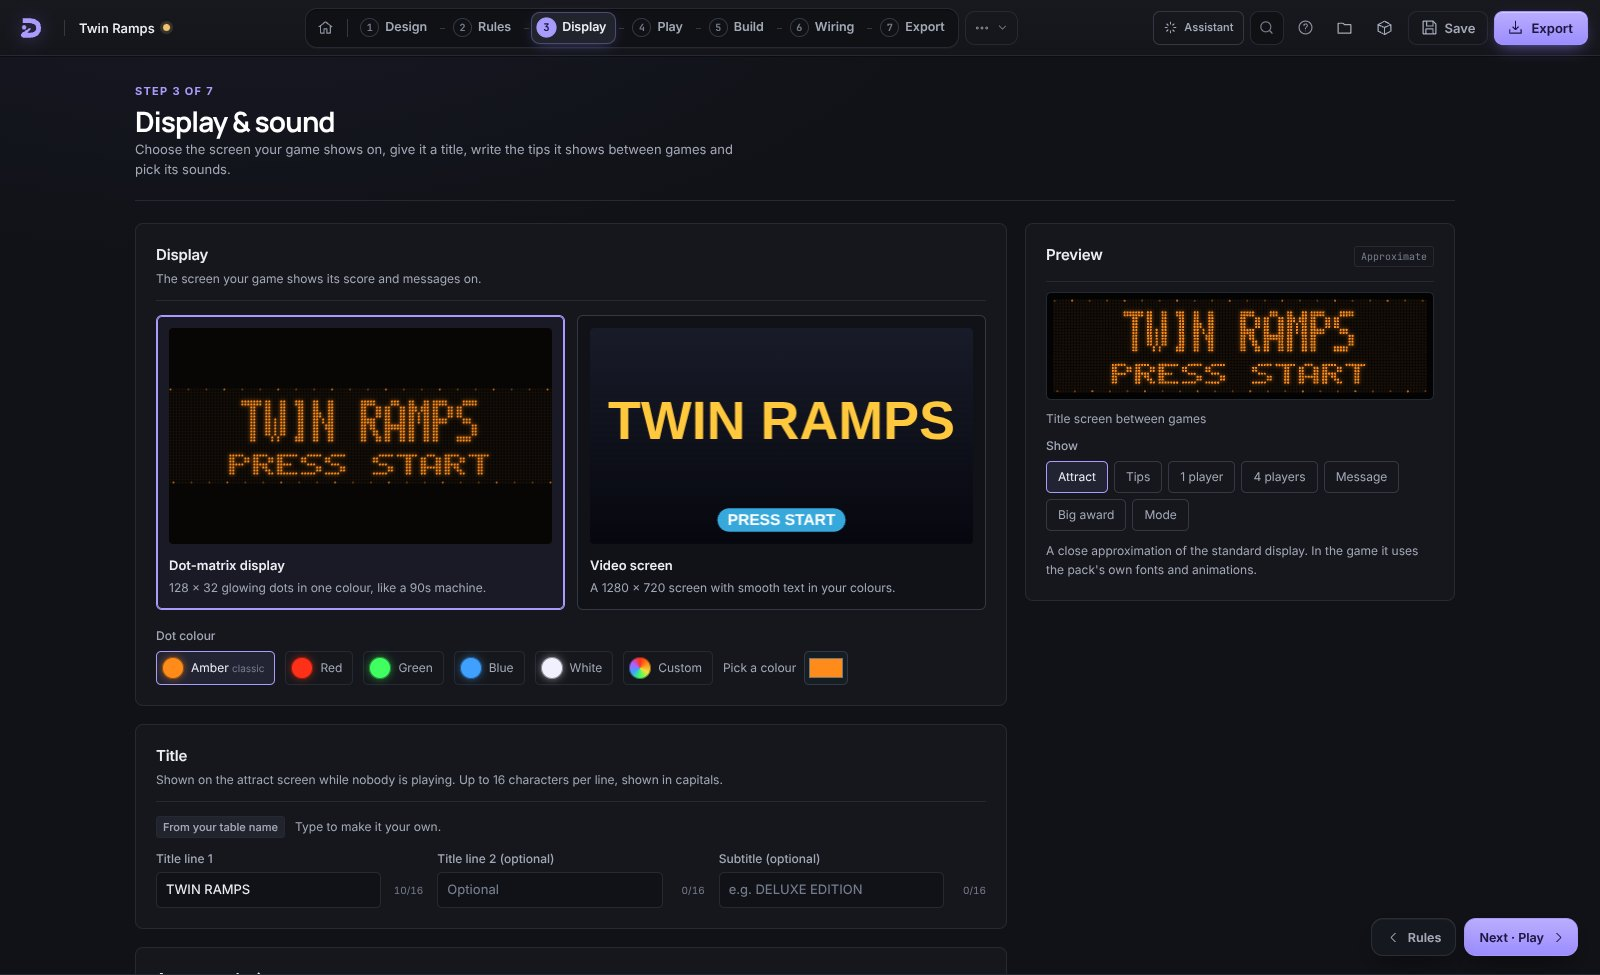
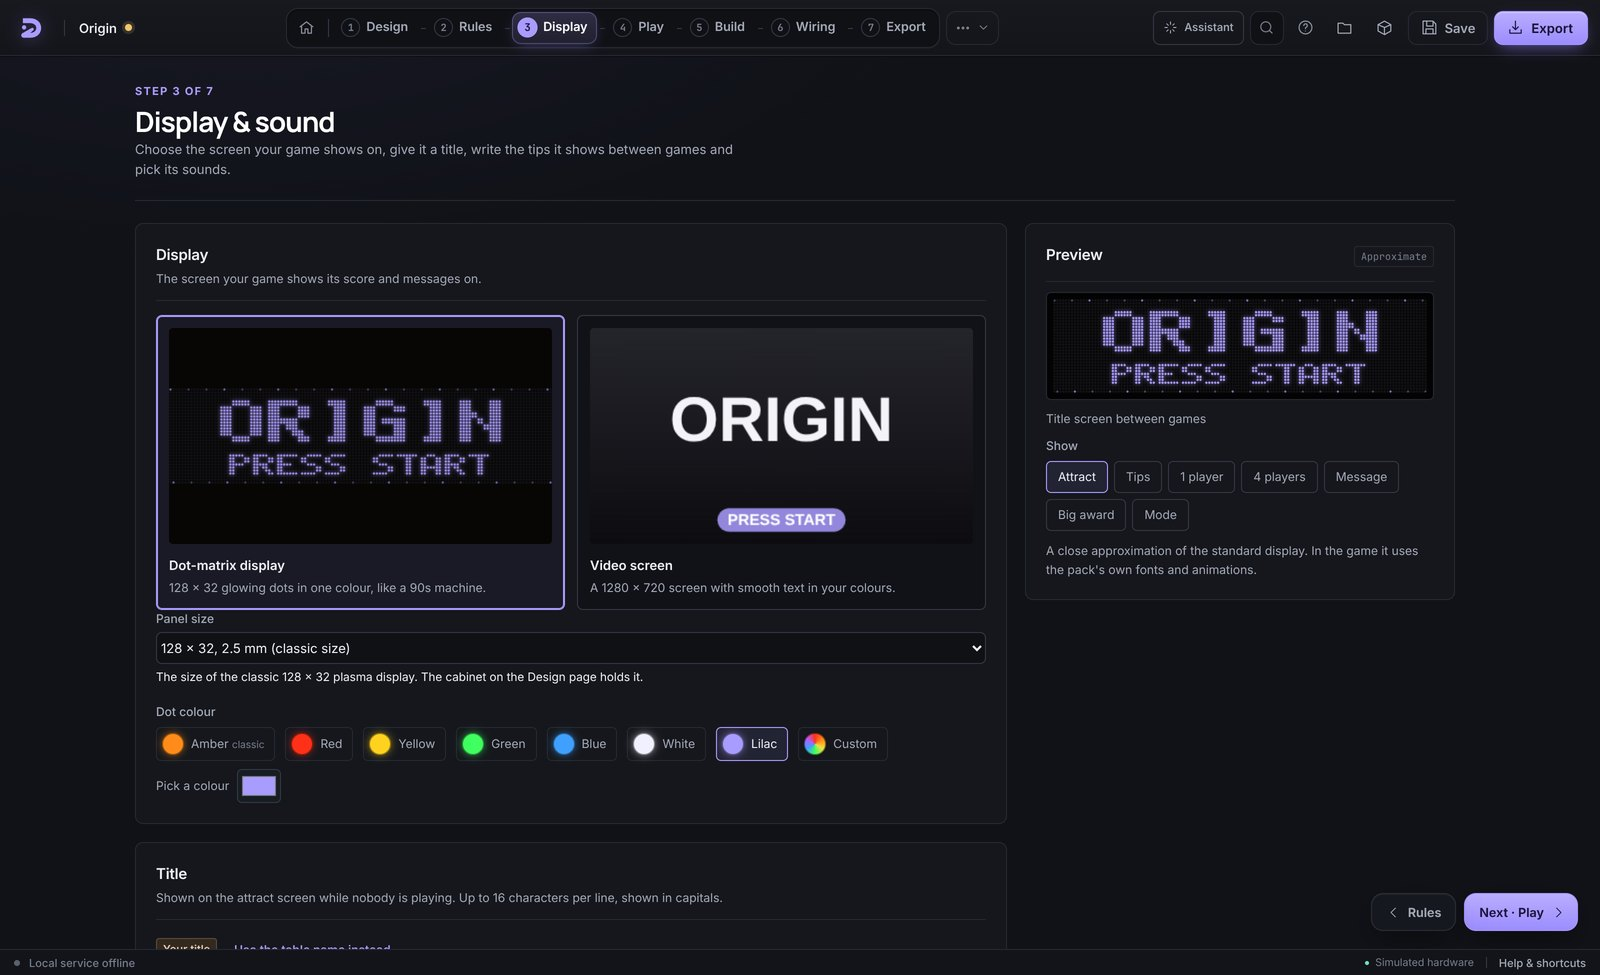
Show the current Deadbounce studio throughout its case study
Fresh captures of the Design, Rules, Display, Build and Wiring pages with the Origin table open, taken from
Deadbounce's main branch at a26bde3 at twice the size and scaled down for sharp text. The hero also comes at 2400
wide for high-density screens. The alt text now describes what each shot shows: the lilac display, Origin's cut
plan and the FAST Neuron boards.

Claude-Session: https://claude.ai/code/session_01YP6uGPMfsV9kKyrg262rqo

diff --git a/work/deadbounce.html b/work/deadbounce.html
@@ -103,7 +103,7 @@
 
     <section class="case-shot wrap" aria-label="The design page">
       <div class="case-media">
-        <span class="case-media-inner"><picture><source srcset="/assets/img/deadbounce-design.webp" type="image/webp"><img src="/assets/img/deadbounce-design.jpg" alt="Deadbounce’s design page: a parts library of flippers, slingshots, pop bumpers, walls, ramps and targets beside a 3D view of the Twin Ramps playfield, with its ramps, wireforms, pop bumpers and flippers." width="1600" height="975" fetchpriority="high" decoding="async"></picture></span>
+        <span class="case-media-inner"><picture><source srcset="/assets/img/deadbounce-design.webp 1600w, /assets/img/deadbounce-design-2400.webp 2400w" sizes="(min-width: 1360px) 1200px, 92vw" type="image/webp"><img src="/assets/img/deadbounce-design.jpg" srcset="/assets/img/deadbounce-design.jpg 1600w, /assets/img/deadbounce-design-2400.jpg 2400w" sizes="(min-width: 1360px) 1200px, 92vw" alt="Deadbounce’s design page: a parts library of flippers, slingshots, pop bumpers, walls, ramps and targets beside a 3D view of the Origin table, with its ramps, wireforms, pop bumpers and flippers." width="1600" height="975" fetchpriority="high" decoding="async"></picture></span>
       </div>
     </section>
 
@@ -158,19 +158,19 @@
         </div>
         <div class="gallery">
           <figure data-fade>
-            <span class="shot"><picture><source srcset="/assets/img/deadbounce-rules.webp" type="image/webp"><img src="/assets/img/deadbounce-rules.jpg" alt="The game rules page: a list of rule features on the left, and the skill shot’s settings, plain-English summary and targets on the right." width="1600" height="975" loading="lazy" decoding="async"></picture></span>
+            <span class="shot"><picture><source srcset="/assets/img/deadbounce-rules.webp" type="image/webp"><img src="/assets/img/deadbounce-rules.jpg" alt="The game rules page for Origin: its twenty features in a list on the left, and the skill shot’s settings, plain-English summary and five top-lane targets on the right." width="1600" height="975" loading="lazy" decoding="async"></picture></span>
             <figcaption><strong>Game rules</strong>Pick a feature, fill in the blanks, and the studio writes the configuration. The summary at the top says what the rule does in plain English.</figcaption>
           </figure>
           <figure data-fade>
-            <span class="shot"><picture><source srcset="/assets/img/deadbounce-display.webp" type="image/webp"><img src="/assets/img/deadbounce-display.jpg" alt="The display and sound page: a choice between an amber dot-matrix display and a video screen, each showing Twin Ramps, Press Start." width="1600" height="975" loading="lazy" decoding="async"></picture></span>
+            <span class="shot"><picture><source srcset="/assets/img/deadbounce-display.webp" type="image/webp"><img src="/assets/img/deadbounce-display.jpg" alt="The display and sound page: a choice between a lilac dot-matrix display and a video screen, each showing Origin, Press Start, beside a preview and the choice of dot colours." width="1600" height="975" loading="lazy" decoding="async"></picture></span>
             <figcaption><strong>Display and sound</strong>A 128 × 32 dot-matrix display in any colour, or a 1280 × 720 screen, with attract mode, scoring, awards and high-score entry.</figcaption>
           </figure>
           <figure data-fade>
-            <span class="shot"><picture><source srcset="/assets/img/deadbounce-build.webp" type="image/webp"><img src="/assets/img/deadbounce-build.jpg" alt="The build page: board dimensions, a cut plan counting holes, pockets and cut-outs, and downloads for review drawings and a printable template." width="1600" height="975" loading="lazy" decoding="async"></picture></span>
+            <span class="shot"><picture><source srcset="/assets/img/deadbounce-build.webp" type="image/webp"><img src="/assets/img/deadbounce-build.jpg" alt="The build page: Origin’s board dimensions, a cut plan counting 214 holes, 21 pockets and 50 cut-outs, and downloads for review drawings, printable templates and manufacturing CAD." width="1600" height="975" loading="lazy" decoding="async"></picture></span>
             <figcaption><strong>Build</strong>The cut plan counts every operation and marks anything that still needs a check against the part maker’s drawing.</figcaption>
           </figure>
           <figure data-fade>
-            <span class="shot"><picture><source srcset="/assets/img/deadbounce-wiring.webp" type="image/webp"><img src="/assets/img/deadbounce-wiring.jpg" alt="The controller and wiring page: guided setup for the ball trough, flippers, drop-target banks and ball locks, above a list of controller boards." width="1600" height="975" loading="lazy" decoding="async"></picture></span>
+            <span class="shot"><picture><source srcset="/assets/img/deadbounce-wiring.webp" type="image/webp"><img src="/assets/img/deadbounce-wiring.jpg" alt="The controller and wiring page: guided setup for the ball trough, flippers, drop-target banks and ball locks, above the controller and its boards, set to FAST Pinball Neuron." width="1600" height="975" loading="lazy" decoding="async"></picture></span>
             <figcaption><strong>Controller and wiring</strong>Choose a platform and set up each mechanism in turn. The plan always asks you to check coil ratings before power goes on.</figcaption>
           </figure>
         </div>
